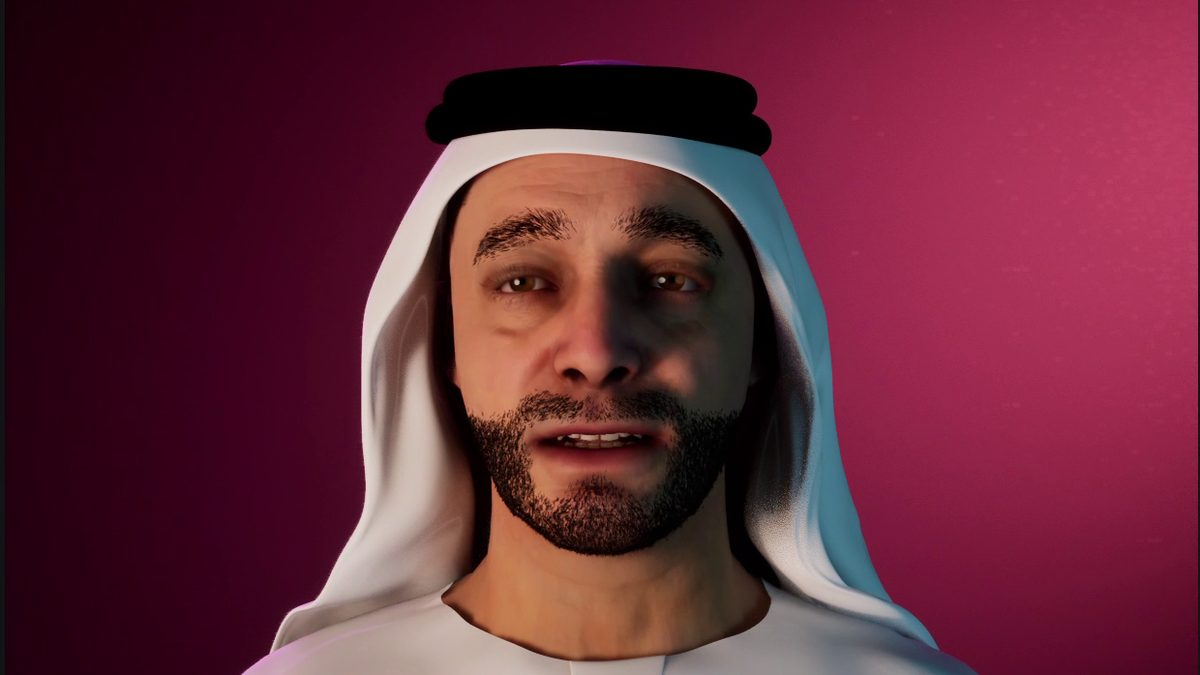
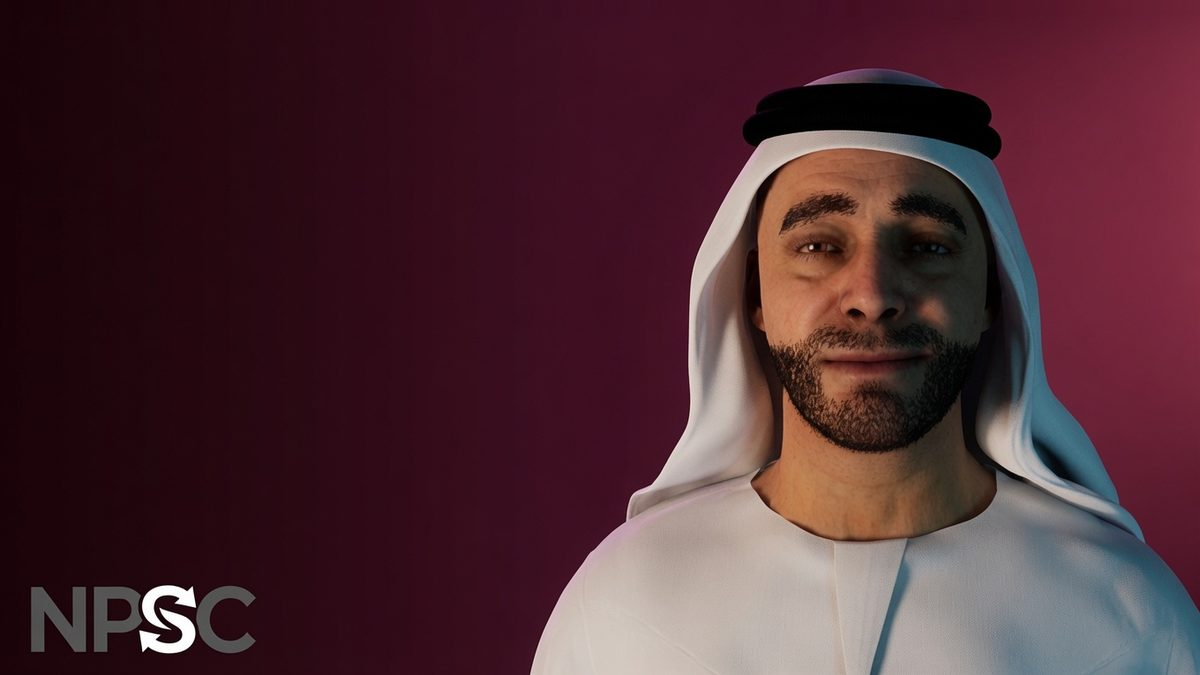
cover image update

diff --git a/index.html b/index.html
@@ -124,7 +124,7 @@
             <div class="project-grid">
 
                 <article class="project-card">
-                    <div class="project-media"><img src="images/work/npsync.webp" alt="Ahmed, an NPsynC digital human, in a white ghutra against a magenta studio background" loading="lazy" decoding="async" width="400" height="300"></div>
+                    <div class="project-media"><img src="images/work/npsync.webp" alt="An NPsynC digital human in a white kandura, ghutra and black agal against a dark maroon background" loading="lazy" decoding="async" width="400" height="300"></div>
                     <div class="project-body">
                         <h3>NPsynC</h3>
                         <p class="project-meta">My company &middot; Digital humans for government &amp; enterprise &middot; Unreal Engine</p>

diff --git a/pages/blogs/allblogs/0004_NPsynC_Digital_Humans.html b/pages/blogs/allblogs/0004_NPsynC_Digital_Humans.html
@@ -46,7 +46,7 @@
             <p class="date-small-text">17 October 2026</p>
             <h1 class="blog-title">Giving AI a Face: Building Digital Humans at NPsynC</h1>
             <div class="blog-prime-image">
-                <img src="../../../images/blogs/NPsynC_2026/cover.webp" alt="Digital human in a white ghutra and black agal against a magenta studio background" width="1200" height="675">
+                <img src="../../../images/blogs/NPsynC_2026/cover.webp" alt="NPsynC digital human in a white kandura, ghutra and black agal against a dark maroon background" width="1200" height="675">
             </div>
         </div>
     </div>
